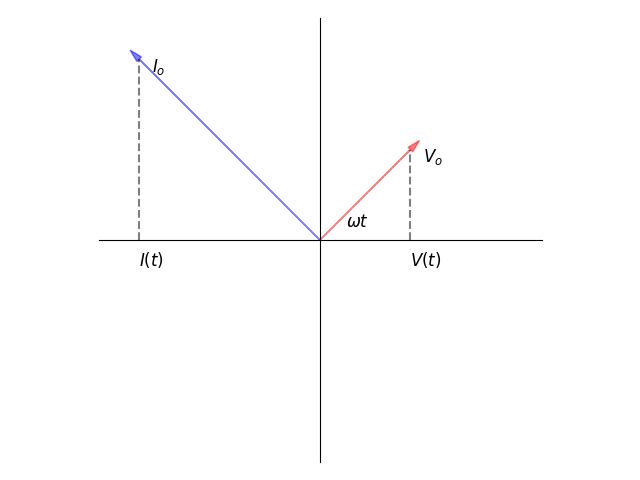
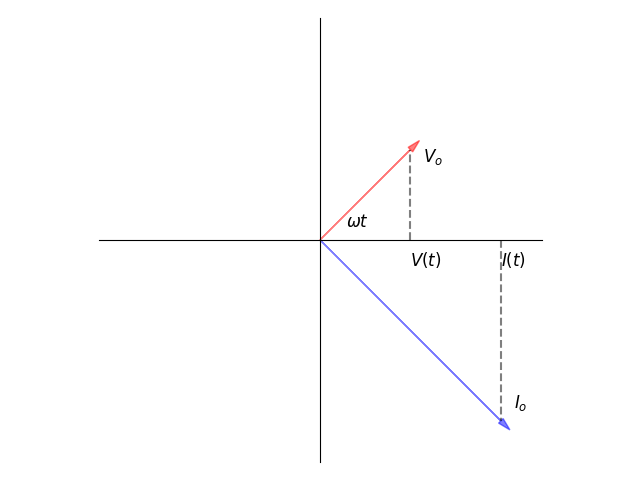
updated plots

diff --git a/phase-x/scripts/ac_circuit.py b/phase-x/scripts/ac_circuit.py
@@ -120,7 +120,7 @@ fig = plt.figure()
 ax = fig.add_subplot(111)
 
 v_r = np.sin(x)
-i_r = 2.*np.sin(x + np.pi/2)
+i_r = 2.*np.sin(x - np.pi/2)
 ax.plot(x,v_r, alpha = alpha, color = 'r', label=r'V(t)')
 ax.plot(x,i_r, alpha = alpha, color = 'b', label=r'I(t)')
 plt.axhline(y=1., color='k', linestyle='--')
@@ -154,10 +154,10 @@ ax = fig.add_subplot(111, aspect='equal')
 cos_t = np.cos(np.pi/4)
 ax.arrow(0, 0, cos_t, cos_t, fc="r", ec="r",
                 head_width=0.05, head_length=0.1 , alpha=alpha)
-ax.arrow(0, 0, -2*cos_t, 2*cos_t, fc="b", ec="b",
+ax.arrow(0, 0, 2*cos_t, -2*cos_t, fc="b", ec="b",
                 head_width=0.05, head_length=0.1 , alpha=alpha)
 plt.plot([cos_t,cos_t],[0, cos_t], ls='--', color='k', alpha=0.5)  
-plt.plot([-2*cos_t,-2*cos_t],[0, 2*cos_t], ls='--', color='k', alpha = 0.5)
+plt.plot([2*cos_t,2*cos_t],[0, -2*cos_t], ls='--', color='k', alpha = 0.5)
 
 ax.spines['left'].set_position('center')
 ax.spines['right'].set_color('none')
@@ -173,9 +173,9 @@ plt.yticks([])
 #ax.yaxis.set_label_coords(0.5, 1.03)
 
 ax.text(cos_t + 0.1 , cos_t - 0.1, r'$V_o$', fontsize=12)
-ax.text(-2*cos_t + 0.1 , 2*cos_t - 0.1, r'$I_o$', fontsize=12)
+ax.text(2*cos_t + 0.1 , -2*cos_t + 0.1, r'$I_o$', fontsize=12)
 ax.text(cos_t, -0.2, r'$V(t)$', fontsize=12)
-ax.text(-2*cos_t, -0.2, r'$I(t)$', fontsize=12)
+ax.text(2*cos_t, -0.2, r'$I(t)$', fontsize=12)
 ax.text(0.2, 0.1, r'$\omega t$', fontsize=12)
 
 
